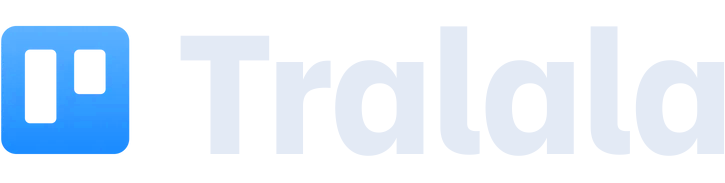
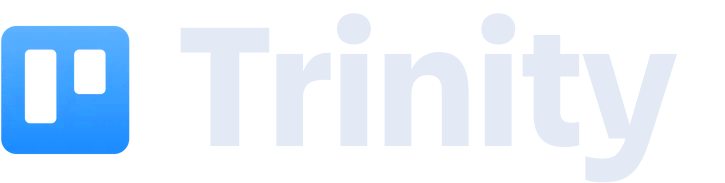
Trinity rename

diff --git a/components/Header.tsx b/components/Header.tsx
@@ -46,7 +46,7 @@ function Header({ user }: { user: Session["user"] }) {
 					<Image
 						priority={true}
 						src={lightImage}
-						alt="Tralala logo"
+						alt="Trinity logo"
 						width={300}
 						height={100}
 						className="w-44 md:w-56 pb-10 md:pb-0 object-contain"

diff --git a/app/layout.tsx b/app/layout.tsx
@@ -1,7 +1,7 @@
 import "./globals.css";
 
 export const metadata = {
-	title: "Tralala",
+	title: "Trinity",
 	description: "Generated by Lavie",
 };
 
